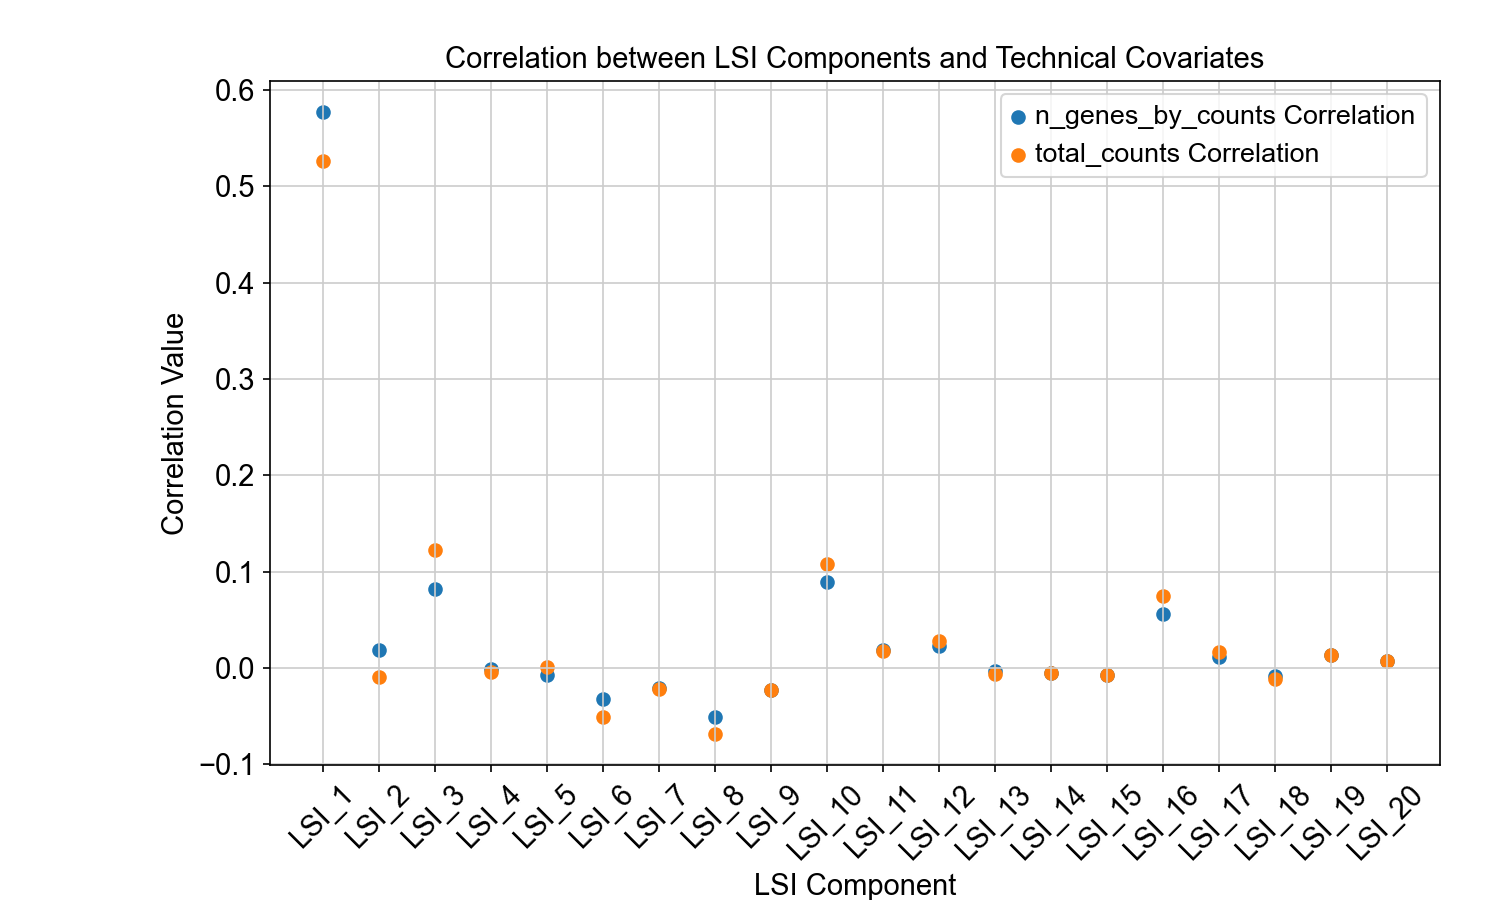
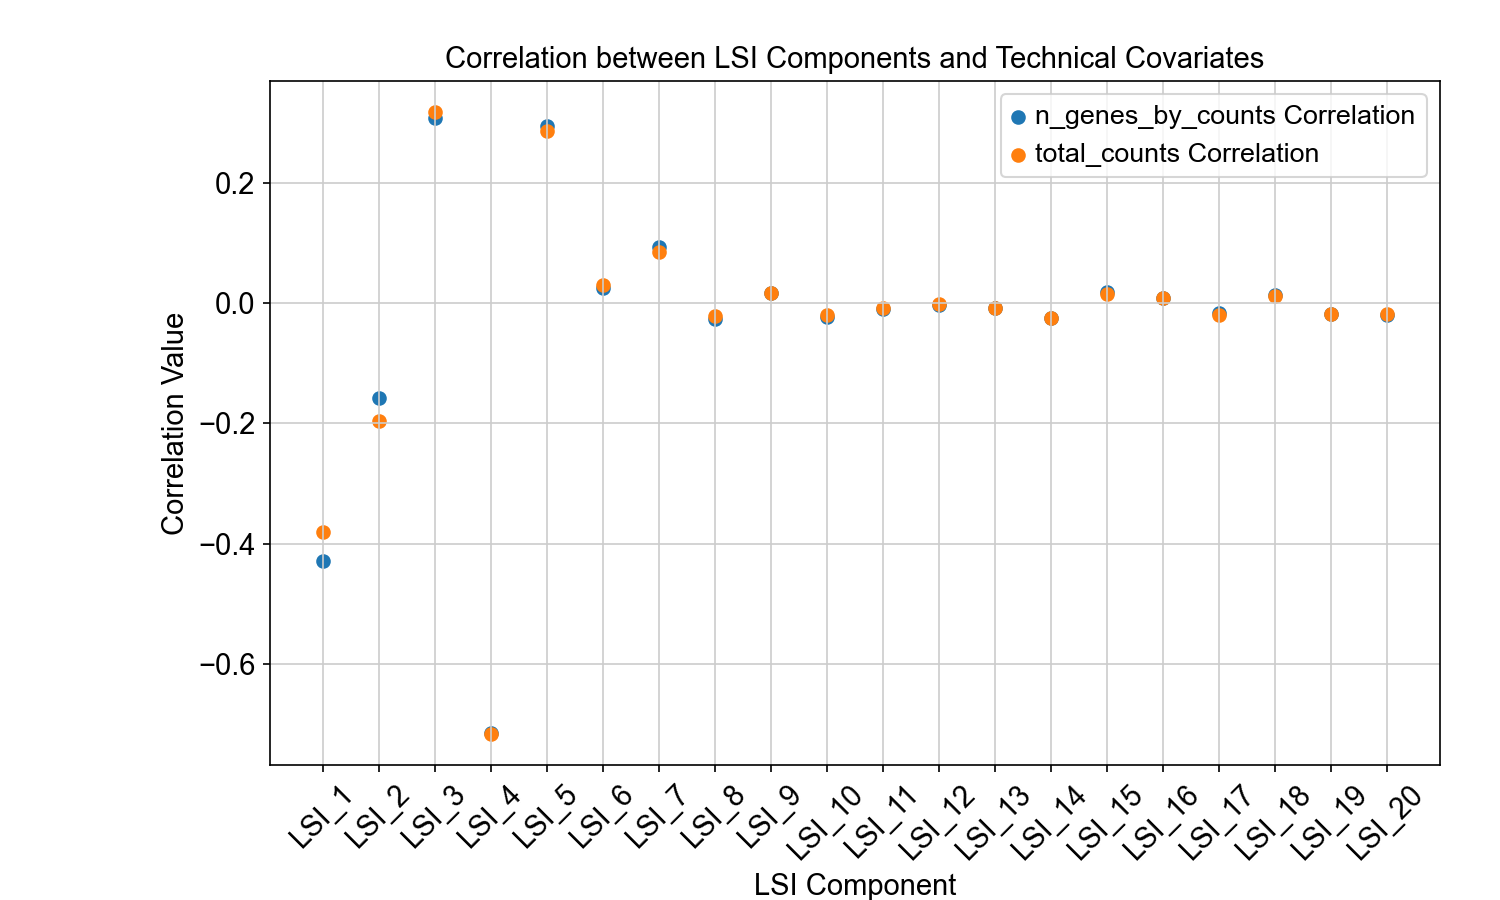
added plots ATAC

diff --git a/docs/filtering_data/filtering_data_with_panpipes.md b/docs/filtering_data/filtering_data_with_panpipes.md
@@ -159,7 +159,6 @@ and same for the ATAC:
 
 <img src="https://github.com/DendrouLab/panpipes-tutorials/blob/main/docs/filtering_data/figures/atac/pca_vars.png?raw=true" alt="img2" >
 
-
 As usual, you can choose to modify the parameters and re-run a specific task, for example after removing the log file `logs/preprocess_rna.log` , running `panpipes preprocess make rna_preprocess` will specifically run the filtering task on the rna and exit the pipeline.
 For example, we can change the dimred of the ATAC modality into LSI, then remove the previous log file. We can simply change its name to keep the record of the previous run. (`mv logs/preprocess_atac.log logs/preprocess_atac.log`)
 
@@ -168,23 +167,30 @@ For example, we can change the dimred of the ATAC modality into LSI, then remove
 #----------------------------
 # ATAC Dimensionality reduction
 #----------------------------
-dimred: PCA #PCA or LSI
+dimred: LSI #PCA or LSI
 n_comps: 50 # how many components to compute
 ```
 
-We run `panpipes preprocess make full --local` again. Now we have a LSI for the atac modality in the mudata output file and a new plot
+We run `panpipes preprocess make full --local` again. Now we have in the mudata output file a LSI for the atac modality calculated on the same set of HVF as before, and a few new outputs, such as the LSI components correlation with gene counts.
 
 ```(python)
 import muon as mu
 mdata = mu.read("teaseq.h5mu")
 atac = mdata["atac"]
 atac
-
-
-
+AnnData object with n_obs × n_vars = 1914 × 107739
+    obs: 'orig.ident', 'nCount_RNA', 'nFeature_RNA', 'nCount_ATAC', 'nFeature_ATAC', 'original_barcodes', 'n_fragments', 'n_duplicate', 'n_mito', 'n_unique', 'altius_count', 'altius_frac', 'gene_bodies_count', 'gene_bodies_frac', 'peaks_count', 'peaks_frac', 'tss_count', 'tss_frac', 'barcodes', 'cell_name', 'well_id', 'chip_id', 'batch_id', 'pbmc_sample_id', 'DoubletScore', 'DoubletEnrichment', 'TSSEnrichment', 'dataset', 'sample_id', 'n_genes_by_counts', 'total_counts', 'n_counts'
+    var: 'features', 'n_cells_by_counts', 'mean_counts', 'pct_dropout_by_counts', 'total_counts', 'highly_variable', 'means', 'dispersions', 'dispersions_norm', 'mean', 'std'
+    uns: 'dataset_colors', 'hvg', 'log1p', 'lsi', 'pca'
+    obsm: 'X_lsi', 'X_pca'
+    varm: 'LSI', 'PCs'
+    layers: 'lognorm', 'raw_counts', 'scaled_counts'
 ```
 
-NOTE: if you want to change other parameters like methods for HVG selection, remove (or rename) the teaseq.h5mu object from 
+<img src="https://github.com/DendrouLab/panpipes-tutorials/blob/main/docs/filtering_data/figures/atac/LSI_corr_plot.png?raw=true" alt="img2" >
+
+
+NOTE: if you want to change other parameters like methods for HVG selection, to remove (or rename) the teaseq.h5mu object from the folder and re-run the workflow. You can also run `panpipes preprocess make preprocess_atac --local` to run individual steps.
 
 
 Next [uni and multimodal integration](../uni_multi_integration/Integrating_data_with_panpipes.md)
